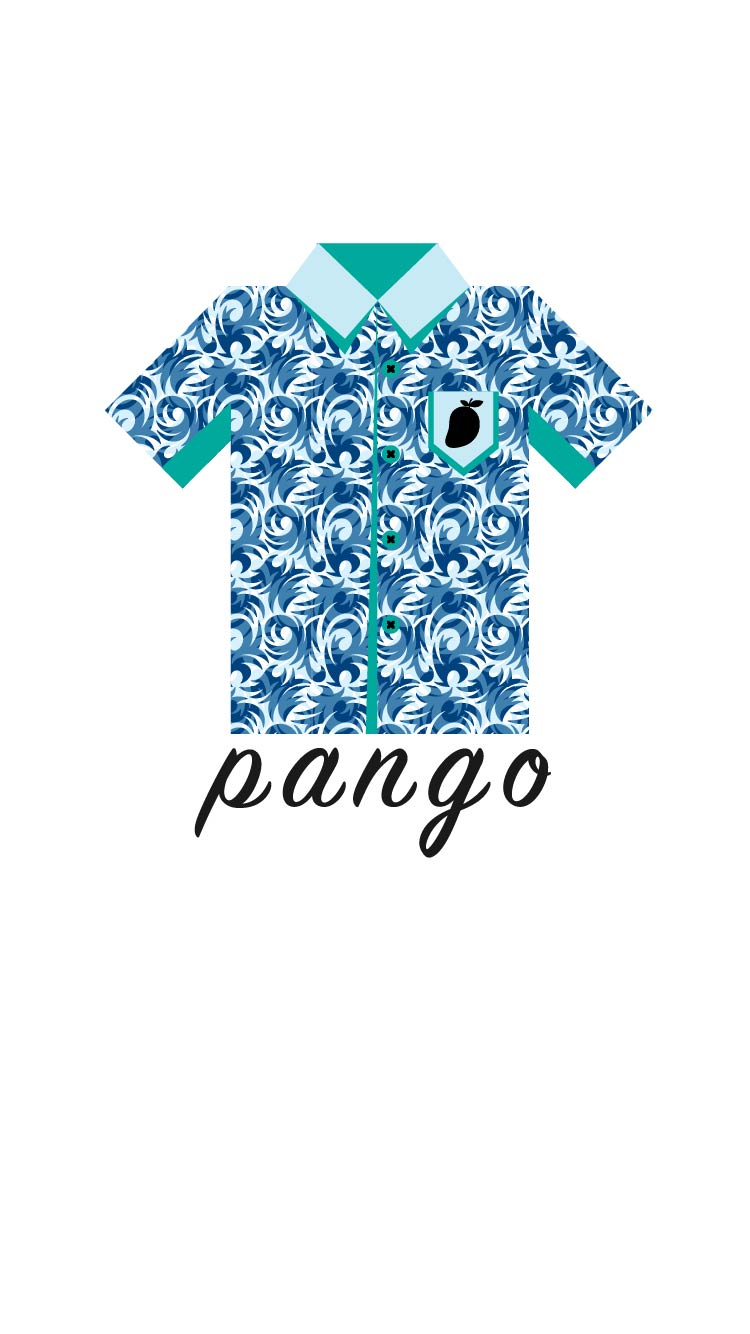
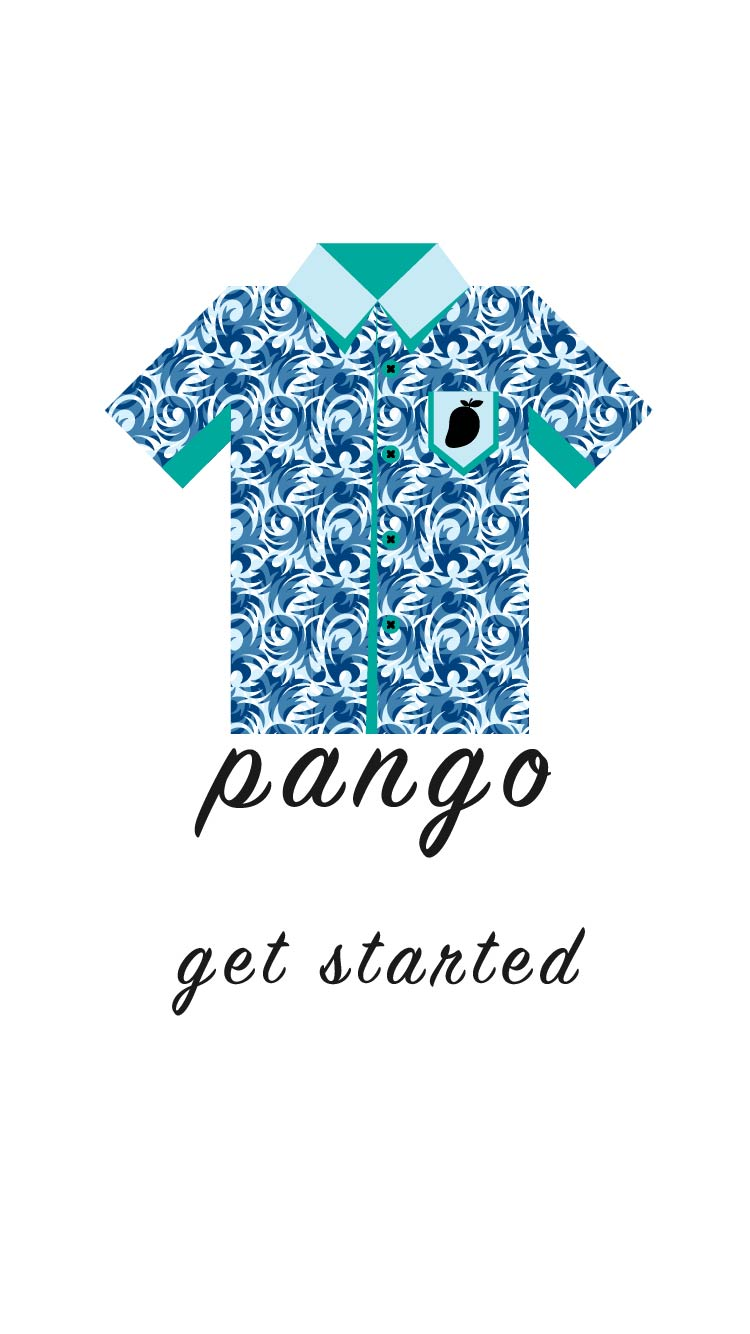
centered image

Changed region(s): [[0.4293, 0.7069, 0.7667, 0.7376], [0.2147, 0.7069, 0.3987, 0.7684], [0.7667, 0.6762, 0.7973, 0.7069]]

diff --git a/camera.js b/camera.js
@@ -1,8 +1,114 @@
-const img = document.querySelector('img');
+(function() {
+  // The width and height of the captured photo. We will set the
+  // width to the value defined here, but the height will be
+  // calculated based on the aspect ratio of the input stream.
 
-imageCapture.takePhoto()
-  .then(blob => {
-    img.src = URL.createObjectURL(blob);
-    img.onload = () => { URL.revokeObjectURL(this.src); }
-  })
-  .catch(error => console.error('takePhoto() error:', error));
+  var width = 320;    // We will scale the photo width to this
+  var height = 0;     // This will be computed based on the input stream
+
+  // |streaming| indicates whether or not we're currently streaming
+  // video from the camera. Obviously, we start at false.
+
+  var streaming = false;
+
+  // The various HTML elements we need to configure or control. These
+  // will be set by the startup() function.
+
+  var video = null;
+  var canvas = null;
+  var photo = null;
+  var startbutton = null;
+
+  function startup() {
+    video = document.getElementById('video');
+    canvas = document.getElementById('canvas');
+    photo = document.getElementById('photo');
+    startbutton = document.getElementById('startbutton');
+
+    navigator.getMedia = ( navigator.getUserMedia ||
+                           navigator.webkitGetUserMedia ||
+                           navigator.mozGetUserMedia ||
+                           navigator.msGetUserMedia);
+
+    navigator.getMedia(
+      {
+        video: true,
+        audio: false
+      },
+      function(stream) {
+        if (navigator.mozGetUserMedia) {
+          video.mozSrcObject = stream;
+        } else {
+          var vendorURL = window.URL || window.webkitURL;
+          video.src = vendorURL.createObjectURL(stream);
+        }
+        video.play();
+      },
+      function(err) {
+        console.log("An error occured! " + err);
+      }
+    );
+
+    video.addEventListener('canplay', function(ev){
+      if (!streaming) {
+        height = video.videoHeight / (video.videoWidth/width);
+      
+        // Firefox currently has a bug where the height can't be read from
+        // the video, so we will make assumptions if this happens.
+      
+        if (isNaN(height)) {
+          height = width / (4/3);
+        }
+      
+        video.setAttribute('width', width);
+        video.setAttribute('height', height);
+        canvas.setAttribute('width', width);
+        canvas.setAttribute('height', height);
+        streaming = true;
+      }
+    }, false);
+
+    startbutton.addEventListener('click', function(ev){
+      takepicture();
+      ev.preventDefault();
+    }, false);
+    
+    clearphoto();
+  }
+
+  // Fill the photo with an indication that none has been
+  // captured.
+
+  function clearphoto() {
+    var context = canvas.getContext('2d');
+    context.fillStyle = "#AAA";
+    context.fillRect(0, 0, canvas.width, canvas.height);
+
+    var data = canvas.toDataURL('image/png');
+    photo.setAttribute('src', data);
+  }
+  
+  // Capture a photo by fetching the current contents of the video
+  // and drawing it into a canvas, then converting that to a PNG
+  // format data URL. By drawing it on an offscreen canvas and then
+  // drawing that to the screen, we can change its size and/or apply
+  // other changes before drawing it.
+
+  function takepicture() {
+    var context = canvas.getContext('2d');
+    if (width && height) {
+      canvas.width = width;
+      canvas.height = height;
+      context.drawImage(video, 0, 0, width, height);
+    
+      var data = canvas.toDataURL('image/png');
+      photo.setAttribute('src', data);
+    } else {
+      clearphoto();
+    }
+  }
+
+  // Set up our event listener to run the startup process
+  // once loading is complete.
+  window.addEventListener('load', startup, false);
+})();

diff --git a/main.css b/main.css
@@ -5,3 +5,50 @@
     width: 50%;
 }
 
+#video {
+  border: 1px solid black;
+  box-shadow: 2px 2px 3px black;
+  width:320px;
+  height:240px;
+}
+
+#photo {
+  border: 1px solid black;
+  box-shadow: 2px 2px 3px black;
+  width:320px;
+  height:240px;
+}
+
+#canvas {
+  display:none;
+}
+
+.camera {
+  width: 340px;
+  display:inline-block;
+}
+
+.output {
+  width: 340px;
+  display:inline-block;
+}
+
+#startbutton {
+  display:block;
+  position:relative;
+  margin-left:auto;
+  margin-right:auto;
+  bottom:32px;
+  background-color: rgba(0, 150, 0, 0.5);
+  border: 1px solid rgba(255, 255, 255, 0.7);
+  box-shadow: 0px 0px 1px 2px rgba(0, 0, 0, 0.2);
+  font-size: 14px;
+  font-family: "Lucida Grande", "Arial", sans-serif;
+  color: rgba(255, 255, 255, 1.0);
+}
+
+.contentarea {
+  font-size: 16px;
+  font-family: "Lucida Grande", "Arial", sans-serif;
+  width: 760px;
+}

diff --git a/index.html b/index.html
@@ -3,6 +3,7 @@
     <head>
         <meta charset="utf-8">
         <meta http-equiv="X-UA-Compatible" content="IE=edge">
+        <link rel="stylesheet" href="main.css">
         <title>pango</title>
         <meta name="description" content="">
         <meta name="viewport" content="width=device-width, initial-scale=1">
@@ -12,9 +13,13 @@
     <body>
         <!--home-->
         <div>
-            <img src="images/home.jpg" id="center-image" class="center" alt="home"/>
-            <button id='change-image-button'>Change Image</button>
+            <img src="images/home.jpg" id="center-image" class="center" alt="home" usemap="#startmap"/>
+            <map name="startmap" id="get-started-area">
+            <area  title="startmap" shape="rect" coords="161,1030,601,902" />
+            </map>
+
         </div>
+
 
     </body>
 

diff --git a/index.js b/index.js
@@ -2,12 +2,13 @@ const IMAGES = [
     'home',
     'about',
     'fineapple',
+    'mangno',
     'loading'
 ]
 
 let changeImageButtonEl;
-let centerImageEl;
-
+//let centerImageEl;
+let changeToCamera
 let activeImageIndex = 0;
 
 function changeImage(e) {
@@ -17,7 +18,7 @@ function changeImage(e) {
 }
 
 function init() {
-   changeImageButtonEl = document.querySelector('#change-image-button');
+//    changeImageButtonEl = document.querySelector('#change-image-button');
 
    centerImageEl = document.querySelector('#center-image');
 
